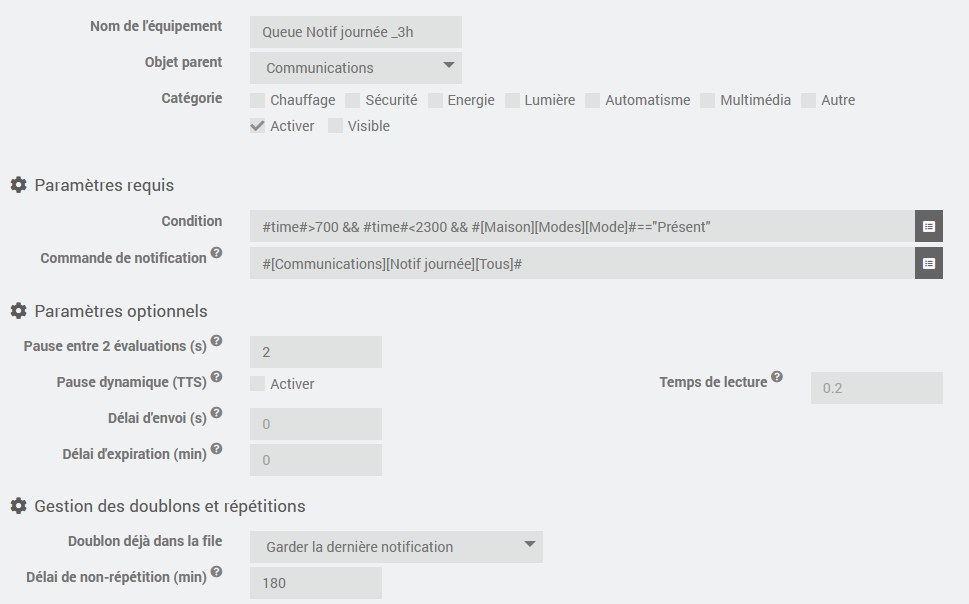
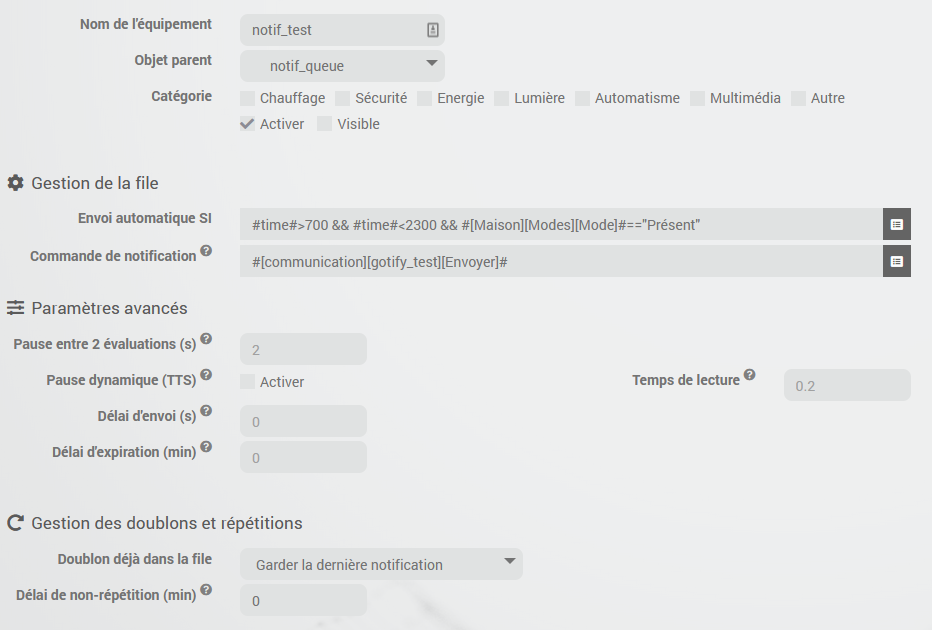
notificationqueue

diff --git a/notificationqueue/fr_FR/index.md b/notificationqueue/fr_FR/index.md
@@ -80,6 +80,27 @@ Cela permet de supprimer la notification et donc de ne pas ajouter l'ajouter à 
   - lorsqu'une commande info utilisée dans la condition change de valeur (même principe que les déclencheurs de scénario)
 - le ask est géré par le plugin (il faut que la commande de notification utilisée ensuite le gère également)
 
+## Génération de texte
+
+Le plugin gère la génération de texte aléatoire. Le système est le même que pour les interactions:
+
+> "[Bonjour|Salut|Coucou]" retournera soit "Bonjour" soit "Salut" soit "Coucou"
+
+## Texte conditionnel
+
+Le plugin gère les conditions dans le texte grâce à un opérateur ternaire:
+
+> "{(test) ? vrai : faux}"
+
+Exemple:
+> Ce matin {(#[Maison][Météo][Température]# < 6) ? il fait froid:il fait chaud}
+
+Il est possible de ne pas mettre de texte dans le cas de la condition vrai ou faux mais il faut obligatoirement laisser les deux points (":"), exemple:
+
+> Ce matin {(#[Maison][Météo][Température]# < 6) ? il fait froid:}
+
+Les conditions ne peuvent pas être imbriquée, ce n'est pas géré.
+
 # Les commandes
 
 - **Ajouter** permet d'ajouter un message dans la file, la condition sera évaluée immédiatement et tous les messages seront alors envoyés (dans l'ordre) si elle est remplie

diff --git a/notificationqueue/fr_FR/changelog.md b/notificationqueue/fr_FR/changelog.md
@@ -5,6 +5,13 @@ lang: fr_FR
 pluginId: notificationqueue
 ---
 
+# 2020-11-29
+
+- Ajout de la gestion de la génération du texte aléatoire (même système que dans les interactions, voir documentation)
+- Ajout de la gestion du texte conditionnel via un opérateur ternaire (voir documentation)
+- Nouvelle présentation de la liste des objets
+- Amélioration de la mise en page de la configuration de l'équipement et des commandes
+
 # 2020-09-14
 
 - Ajout d'une gestion de (non-)répétition servant à supprimer une notification en double déjà envoyée lors des x dernières minutes
